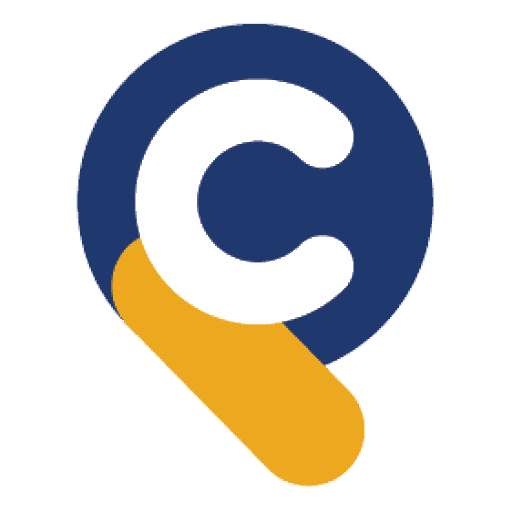
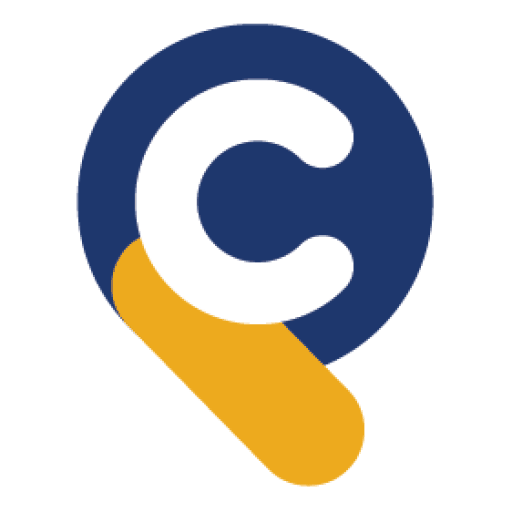
Usar el logotipo oficial de CONDELPI y renovar caché PWA

Changed region(s): [[0.4688, 0.0312, 0.5312, 0.0625], [0.5938, 0.9375, 0.625, 0.9688], [0.125, 0.375, 0.1562, 0.4062]]

diff --git a/sw.js b/sw.js
@@ -1,4 +1,4 @@
-const CACHE_NAME = "agenda-condelpi-shell-v1";
+const CACHE_NAME = "agenda-condelpi-shell-v2";
 const SHELL_ASSETS = [
   "./",
   "./index.html",

diff --git a/README.md b/README.md
@@ -8,31 +8,34 @@ Contenedor web instalable para acceder a Agenda CONDELPI, cuya interfaz de negoc
 - **Repositorio:** https://github.com/saritama26-coder/agenda-condelpi
 - **Google Apps Script:** https://script.google.com/macros/s/AKfycbzZC9zWRiVMUijCYsvo10Nly5zPrZDJHS14fS2IKfS2z5HIYhHJSXHZvnwR-yhVUOT-5w/exec
 
-## Cambios del contenedor
+## Logo oficial y acceso móvil
 
-- Página de acceso móvil con el logotipo de CONDELPI y botón de apertura directa del CRM.
-- Iconos PNG para manifest/PWA y para añadir el acceso a la pantalla de inicio.
-- Diseño adaptable, áreas seguras para pantallas con muesca y objetivos táctiles grandes.
-- Botón de instalación en navegadores compatibles y guía para la instalación manual en iPhone/iPad.
-- Service worker que guarda la página de acceso y sus recursos estáticos para disponibilidad básica sin conexión. El CRM requiere conexión a internet y no se usa ni se almacena información del CRM en la caché del contenedor.
-- En escritorio se conserva la vista integrada con un enlace alternativo para abrir Apps Script fuera del marco.
+Los archivos `logo.png`, `icon-192.png`, `icon-512.png` y `apple-touch-icon.png` usan ahora el logotipo que proporcionó el usuario. Los iconos PWA se presentan sobre fondo blanco para mejorar su legibilidad en la pantalla de inicio; el dibujo, los colores y la proporción del logotipo se conservan.
+
+- Página de acceso móvil con el logotipo oficial y botón para abrir el CRM directamente.
+- Botón de instalación en navegadores compatibles y guía para instalación manual en iPhone/iPad y Android.
+- Diseño adaptable, zonas seguras para teléfonos con muesca y objetivos táctiles grandes.
+- El service worker se actualizó a `agenda-condelpi-shell-v2` para invalidar la caché anterior y volver a descargar los nuevos iconos.
+- En escritorio se conserva la vista integrada con una alternativa para abrir Apps Script fuera del marco.
 
 ## Instalar en la pantalla del teléfono
 
-**iPhone/iPad:** abre el enlace de la aplicación en Safari, toca **Compartir** y después **Añadir a pantalla de inicio**.
+**iPhone/iPad:** abre la página en Safari, toca **Compartir** y luego **Añadir a pantalla de inicio**.
 
-**Android:** abre el enlace en Chrome, abre el menú de tres puntos (⋮) y selecciona **Instalar aplicación** o **Añadir a pantalla principal**. Cuando el navegador muestre el botón de instalación en la página, también puedes usarlo.
+**Android:** abre la página en Chrome y selecciona **Instalar aplicación** o **Añadir a pantalla principal** en el menú del navegador.
+
+El CRM requiere conexión a internet.
 
 ## Limitaciones y tareas del backend
 
-Este repositorio incluye el contenedor web, el manifiesto, iconos y recursos estáticos; no incluye el código interno completo del CRM. Por tanto, no modifica ni certifica los permisos, formularios, tablas, almacenamiento, copias de seguridad, validaciones de datos ni las operaciones comerciales de Google Apps Script. Para auditar y corregir esas funciones hace falta el código fuente del proyecto de Apps Script.
+Este repositorio contiene el contenedor, el manifiesto, los iconos y los recursos estáticos; no contiene el código interno completo del CRM. Por eso no modifica ni certifica los permisos, formularios, tablas, almacenamiento, copias de seguridad, validaciones de datos ni las operaciones comerciales de Google Apps Script. Para auditarlos se requiere el código fuente del proyecto de Apps Script.
 
-La vista de escritorio usa un `iframe`. Si Google Apps Script bloquea la incrustación, debe probarse la apertura directa y revisar la configuración de `doGet()` del proyecto correcto antes de decidir si se permite incrustar el contenido. No actives `ALLOWALL` sin revisar los controles de acceso y el riesgo de *clickjacking*.
+La vista de escritorio usa un `iframe`. Si Apps Script bloquea la incrustación, debe revisarse la configuración de `doGet()` del proyecto correcto antes de decidir si se permite incrustar el contenido. No actives `ALLOWALL` sin revisar los controles de acceso y el riesgo de *clickjacking*.
 
 ## Seguridad
 
-GitHub Pages publica los archivos de este repositorio. No guardes contraseñas, tokens, credenciales ni datos personales de clientes aquí. Los permisos de acceso deben aplicarse en el backend de Google Apps Script, no en el contenedor público.
+GitHub Pages publica los archivos del repositorio. No guardes contraseñas, tokens, credenciales ni datos personales de clientes aquí. Los permisos de acceso deben aplicarse en el backend de Google Apps Script, no en el contenedor público.
 
 ## Publicación
 
-Los cambios en la rama `main` activan el flujo **Deploy Agenda CONDELPI to GitHub Pages**. Comprueba en la pestaña Actions que la ejecución más reciente termine con estado `success`.
+Los cambios en `main` activan el flujo **Deploy Agenda CONDELPI to GitHub Pages**. Comprueba en la pestaña Actions que la ejecución más reciente termine con estado `success`.
